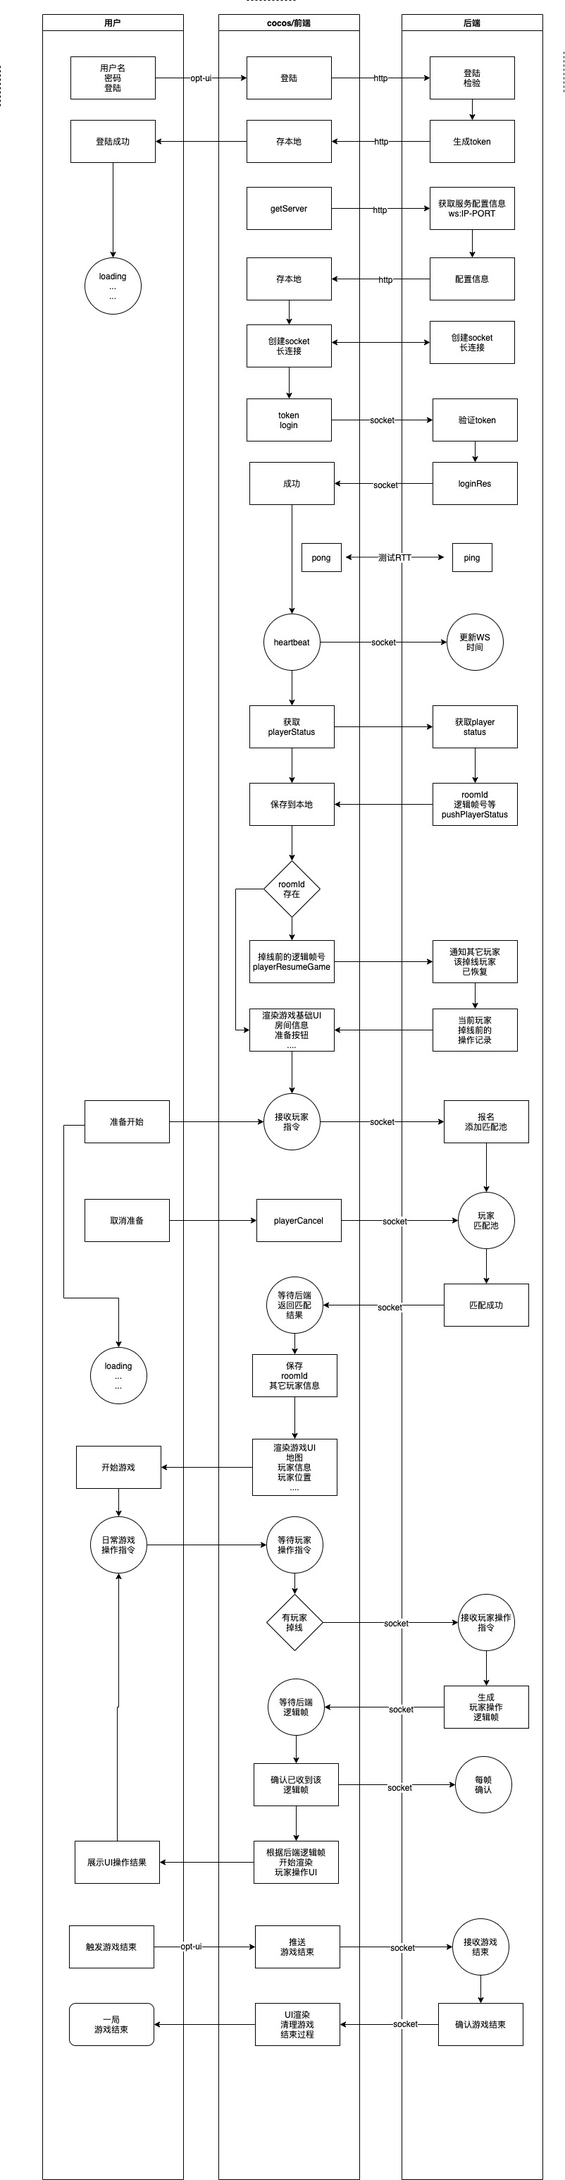
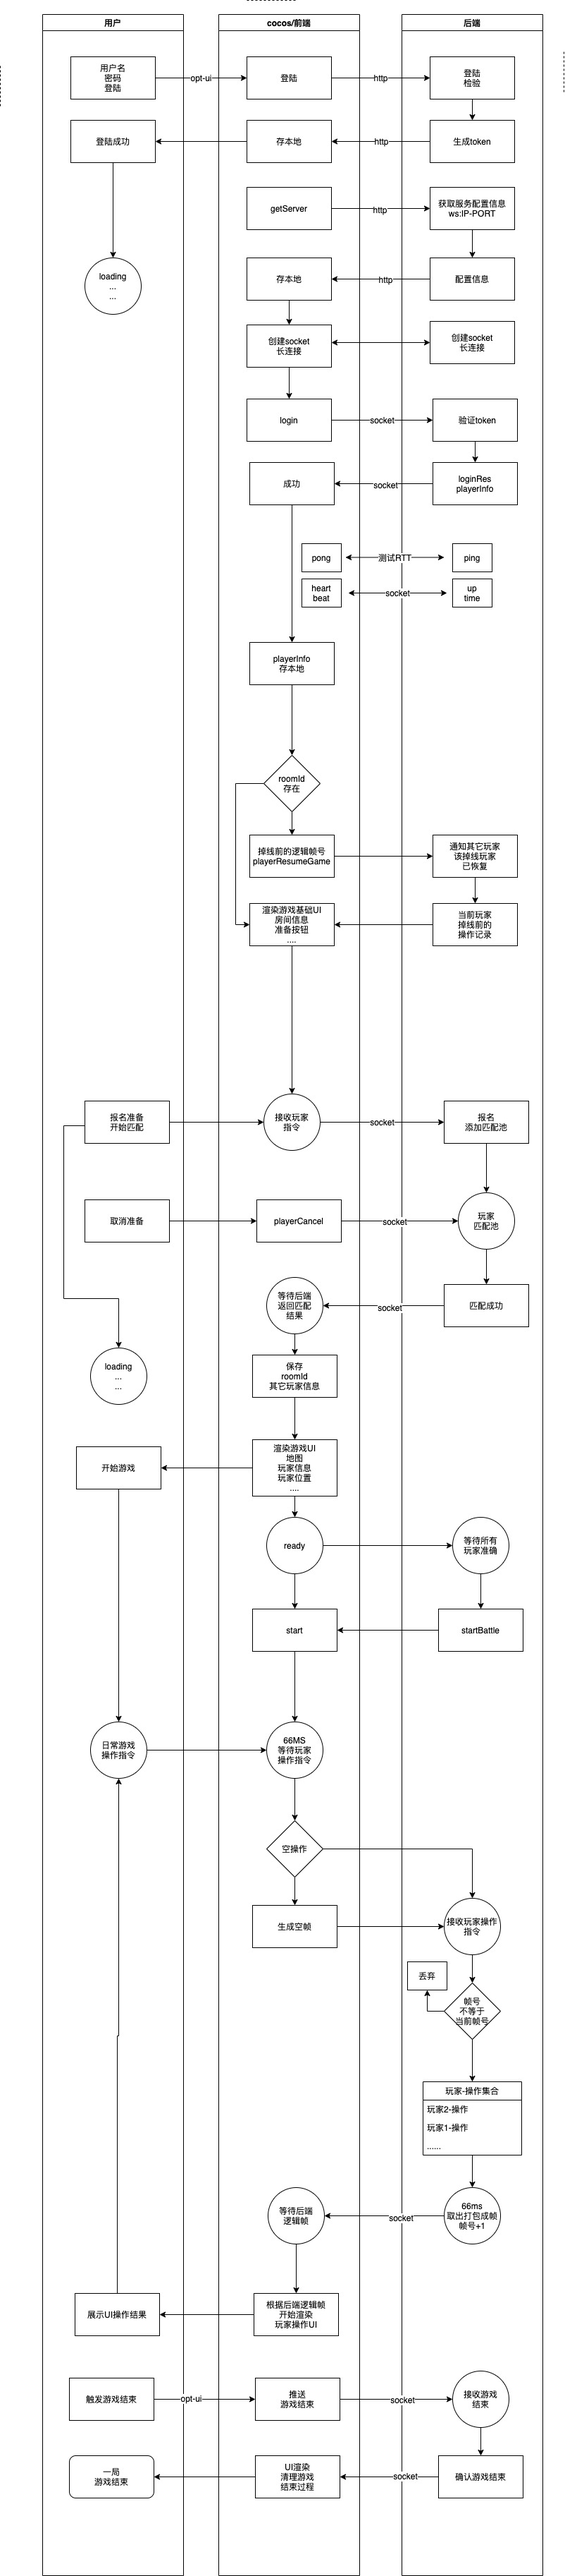
ddddddddd

diff --git a/www/config.html b/www/config.html
@@ -5,26 +5,12 @@
     <title>server - config</title>
 </head>
 <body>
-<a href="/www/">apilist</a>
-<br/>
-<br/>
-服务端接收
-<div id="client">
+<!--ws-->
+<!--<div id="ws">-->
 
-</div>
-<br/>
-客户端接收
-<div id="server">
-
-</div>
-
-ws
-<div id="ws">
-
-</div>
+<!--</div>-->
 
 
-other
 <div id="other">
 
 </div>
@@ -40,6 +26,7 @@ other
         type: "GET",
         // url: "http://192.168.192.91:2222/www/getServer",
         // url: "http://127.0.0.1:2222/www/getServer",
+        url:"/www/getServer",
         url:serverHostUri,
         success: function(data){
             init(data);
@@ -47,42 +34,59 @@ other
     });
 
     function init(data){
-        var clientHtml = initActionMap(data.ActionMap.client)
-        $("#client").html(clientHtml);
+        // var clientHtml = initActionMap(data.ActionMap.client)
+        // $("#client").html(clientHtml);
+        //
+        // var serverHtml = initActionMap(data.ActionMap.server)
+        // $("#server").html(serverHtml);
 
-        var serverHtml = initActionMap(data.ActionMap.server)
-        $("#server").html(serverHtml);
+
+        // var html = "<table>" +
+        //     "<tr><td>ip</td><td>"+data.Host+"</td></tr>" +
+        //     "<tr><td>uri</td><td>"+data.Uri+"</td></tr>" +
+        //     "<tr><td>port</td><td>"+data.Port+"</td></tr>"
+        // ;
+        // html += "</table>";
+        // $("#ws").html(html);
+
 
 
         var html = "<table>" +
-            "<tr><td>ip</td><td>"+data.Host+"</td></tr>" +
-            "<tr><td>uri</td><td>"+data.Uri+"</td></tr>" +
-            "<tr><td>port</td><td>"+data.Port+"</td></tr>"
-        ;
-        html += "</table>";
-        $("#ws").html(html);
+            "<tr><td>key</td><td>value</td><td>描述</td></tr>"+
+            "<tr><td>ip</td><td>"+data.host+"</td><td>长连接IP地址</td></tr>" +
+            "<tr><td>port</td><td>"+data.port+"</td><td>长连接端口号</td></tr>"+
+            "<tr><td>wsUri</td><td>"+data.wsUri+"</td><td>WS相对地址，完整地址：IP:PORT/wsUri </td></tr>" +
+            "<tr><td>mapSize</td><td>"+data.mapSize+"</td><td>地图矩阵大小，用于测试</td></tr>" +
+            "<tr><td>contentType</td><td>"+data.contentType+"</td><td>传输内容格式，目前支持：JSON PROTOBUF</td></tr>" +
+            "<tr><td>loginAuthType</td><td>"+data.loginAuthType+"</td><td>长连接登陆内容验证方式</td></tr>" +
+
+            "<tr><td>offLineWaitTime</td><td>"+data.offLineWaitTime+"</td><td>客户端连接N秒内没有IO操作，服务端将回收该连接SOCKET FD</td></tr>" +
+            "<tr><td>maxClientConnNum</td><td>"+data.maxClientConnNum+"</td><td>客户端最大连接数</td></tr>" +
+            "<tr><td>roomTimeout</td><td>"+data.roomTimeout+"</td><td>房间超时，如果一个房间所有人均掉线后，到达这个时间，系统将回收该房间</td></tr>" +
+
+
+            "<tr><td>lockMode</td><td>"+data.lockMode+"</td><td>1囚徒模式2乐观锁</td></tr>"+
+            "<tr><td>fps</td><td>"+data.fps+"</td><td>每秒多少逻辑帧，使用者要1000/FPS=XX ms</td></tr>"+
+
+            "<tr><td>roomPeople</td><td>"+data.roomPeople+"</td><td>一个房间多少人</td></tr>"
 
 
 
-        var html = "<table>" +
-            "<tr><td>OffLineWaitTime</td><td>"+data.OffLineWaitTime+"</td></tr>" +
-            "<tr><td>MapSize</td><td>"+data.MapSize+"</td></tr>" +
-            "<tr><td>contentType</td><td>"+data.ContentType+"</td></tr>" +
-            "<tr><td>LoginAuthType</td><td>"+data.LoginAuthType+"</td></tr>" +
-            "<tr><td>RoomPeople</td><td>"+data.RoomPeople+"</td></tr>"
+
+
         ;
         html += "</table>";
         $("#other").html(html);
     }
 
-    function initActionMap(data){
-        var html = "<table border='1'><tr><td>id</td><td>action</td><td>描述</td></tr>";
-        for(let key  in data){
-            html += "<tr><td>"+data[key].Id+"</td><td>"+data[key].Action+"</td><td>"+data[key].Desc+"</td><td>"+data[key].Demo+"</td></tr>"
-        }
-        html += "</table>";
-        return html;
-    }
+    // function initActionMap(data){
+    //     var html = "<table border='1'><tr><td>id</td><td>action</td><td>描述</td></tr>";
+    //     for(let key  in data){
+    //         html += "<tr><td>"+data[key].Id+"</td><td>"+data[key].Action+"</td><td>"+data[key].Desc+"</td><td>"+data[key].Demo+"</td></tr>"
+    //     }
+    //     html += "</table>";
+    //     return html;
+    // }
 
 </script>
 

diff --git a/www/ws.html b/www/ws.html
@@ -83,15 +83,15 @@ S端配置信息
     }
 
     function initPlayer(player,divId,data){
-        var host = "ws://"+data.Host + ":"+ data.Port;
-        var hostUri = data.Uri;
-        var matchGroupPeople = data.RoomPeople;
-        var tableMax = data.MapSize;
-        var OffLineWaitTime = data.OffLineWaitTime;
+        var host = "ws://"+data.host + ":"+ data.port;
+        var hostUri = data.wsUri;
+        var matchGroupPeople = data.roomPeople;
+        var tableMax = data.mapSize;
+        var offLineWaitTime = data.offLineWaitTime;
 
         var DomIdPreObj = getPlayerDomIdPreObj(player.id);
         DomIdPreObj.playerId = player.id;
-        var wsObj = new ws(player.id,player.token,host,hostUri,matchGroupPeople,tableMax,DomIdPreObj,OffLineWaitTime,data.ActionMap,data.FPS);
+        var wsObj = new ws(player.id,player.token,host,hostUri,matchGroupPeople,tableMax,DomIdPreObj,offLineWaitTime,data.ActionMap,data.fps);
         var html = getTemplateHtml();
         html = ReplaceTemplateHtml(html,DomIdPreObj);
         $("#"+divId).html(html);
@@ -107,22 +107,21 @@ S端配置信息
 
     function init(data){
         var serverConfigTable = $("#server_config_table");
-        var host = "ws://"+data.Host + ":"+ data.Port;
-        var hostUri = data.Uri;
-        var matchGroupPeople = data.RoomPeople;
-        var tableMax = data.MapSize;
-        var OffLineWaitTime = data.OffLineWaitTime;
+        var host = "ws://"+data.host + ":"+ data.port;
+        var hostUri = data.wsUri;
+        var matchGroupPeople = data.roomPeople;
+        var tableMax = data.mapSize;
+        var offLineWaitTime = data.offLineWaitTime;
 
         var html = "<tr><td>host</td><td>"+host+"</td></tr>";
         // html += "<tr><td>hostUri</td><td>"+hostUri+"</td></tr>";
         // html += "<tr><td>matchGroupPeople</td><td>"+matchGroupPeople+"</td></tr>";
         // html += "<tr><td>tableMax</td><td>"+tableMax+"</td></tr>";
         // html += "<tr><td>OffLineWaitTime</td><td>"+OffLineWaitTime+"</td></tr>";
-        html += "<tr><td>FPS</td><td>"+ data.FPS+"</td></tr>";
-        html += "<tr><td>FPS-MS</td><td>"+ 1000 /  data.FPS+"</td></tr>";
+        html += "<tr><td>FPS</td><td>"+ data.fps+"</td></tr>";
+        html += "<tr><td>FPS-MS</td><td>"+ 1000 /  data.fps+"</td></tr>";
 
         serverConfigTable.html(html);
-
 
         initPlayer(player1,"p1",data);
         initPlayer(player2,"p2",data);

diff --git a/www/sync.js b/www/sync.js
@@ -9,9 +9,9 @@ function ws (playerId,token,host,uri,matchGroupPeople,tableMax,DomIdObj,offLineW
     this.playerId = playerId;//玩家ID
     this.token = token;//玩家的凭证
     this.matchGroupPeople = matchGroupPeople;//一个副本的人数
+    this.heartbeatLoopFunc = null;//心跳回调函数
     this.tableMax = tableMax;//地址的表格大小
     this.otherPlayerOffline = 0;//其它玩家调线
-    this.heartbeatLoopFunc = null;//心跳回调函数
     this.pushLogicFrameLoopFunc = null;//定时推送玩家操作
     this.playerOperationsQueue = [];
     this.closeFlag = 0;//关闭标识，0正常1手动关闭2后端关闭
@@ -28,7 +28,6 @@ function ws (playerId,token,host,uri,matchGroupPeople,tableMax,DomIdObj,offLineW
     this.actionMap = actionMap;
     this.sequenceNumber = 0;
     this.randSeek = 0;
-
 
     //入口函数，必须得建立连接后，都有后续的所有操作
     this.create  = function(){

diff --git a/www/index.html b/www/index.html
@@ -1,0 +1,20 @@
+<!DOCTYPE html>
+<html lang="en">
+<head>
+    <meta charset="UTF-8">
+    <title>frame - sync</title>
+    <table>
+        <tr><td> <a href="/www/ws.html" target="_blank"> jsDemo</a></td></tr>
+        <tr><td><a href="/www/apilist.html"  target="_blank"> apilist</a></td></tr>
+        <tr><td><a href="/www/config.html"  target="_blank"> 配置信息说明</a></td></tr>
+        <tr><td><a href="/www/getProtoFile"  target="_blank"> proto文件</a></td></tr>
+        <tr><td><a href="/www/sync_frame_client_server.jpg"  target="_blank"> C/S交互流程图</a></td></tr>
+        <tr><td>&nbsp;</td></tr>
+        <tr><td><a href="/www/getServer"  target="_blank"> getServer-json</a></td></tr>
+        <tr><td><a href="/www/apilist"  target="_blank"> 协议接口-json</a></td></tr>
+    </table>
+</head>
+<body>
+
+</body>
+</html>

diff --git a/netway.go b/netway.go
@@ -23,26 +23,26 @@ type NetWay struct {
 }
 
 type NetWayOption struct {
-	Host 				string
-	Port 				string
-	Mylog 				*zlib.Log
-	ContentType 		int32			//json protobuf
-	LoginAuthType		string		//jwt
-	LoginAuthSecretKey	string		//密钥
-	MaxClientConnNum	int32			//客户端最大连接数
-	MsgContentMax		int32			//一条消息内容最大值
-	IOTimeout			int64		//read write sock fd 超时时间
-	Cxt 				context.Context	//调用方的CTX，用于所有协程的退出操作
-	MainChan			chan int32
-	ConnTimeout 		int32			//检测FD最后更新时间
-	WsUri				string		//接HOST的后面的URL地址
-	Protocol 			int32			//协议  ，ws sockdt udp
-	MapSize				int32			//地址大小，给前端初始化使用
-	RoomPeople			int32			//一局游戏包含几个玩家
-	RoomTimeout 		int32 		//一个房间超时时间
-	OffLineWaitTime		int32			//lockStep 玩家掉线后，其它玩家等待最长时间
-	LockMode  			int32 		//锁模式，乐观|悲观
-	FPS 				int32 		//frame pre second
+	Host 				string		`json:"host"`
+	Port 				string		`json:"port"`
+	Mylog 				*zlib.Log	`json:"mylog"`
+	ContentType 		int32		`json:"contentType"`	//json protobuf
+	LoginAuthType		string		`json:"loginAuthType"`	//jwt
+	LoginAuthSecretKey	string								//密钥
+	MaxClientConnNum	int32		`json:"maxClientConnMum"`//客户端最大连接数
+	MsgContentMax		int32								//一条消息内容最大值
+	IOTimeout			int64								//read write sock fd 超时时间
+	Cxt 				context.Context						//调用方的CTX，用于所有协程的退出操作
+	MainChan			chan int32	`json:"-"`
+	ConnTimeout 		int32								//检测FD最后更新时间
+	WsUri				string		`json:"wsUri"`			//接HOST的后面的URL地址
+	Protocol 			int32		`json:"protocol"`		//协议  ，ws sockdt udp
+	MapSize				int32		`json:"mapSize"`		//地址大小，给前端初始化使用
+	RoomPeople			int32		`json:"roomPeople"`		//一局游戏包含几个玩家
+	RoomTimeout 		int32 		`json:"roomTimeout"`	//一个房间超时时间
+	OffLineWaitTime		int32		`json:"offLineWaitTime"`//lockStep 玩家掉线后，其它玩家等待最长时间
+	LockMode  			int32 		`json:"lockMode"`		//锁模式，乐观|悲观
+	FPS 				int32 		`json:"fps"`			//frame pre second
 }
 
 type Message struct {

diff --git a/httpd.go b/httpd.go
@@ -39,11 +39,10 @@ func  wwwHandler(w http.ResponseWriter, r *http.Request){
 	}
 
 	var jsonStr []byte
+	//var err error
 	if uri == "/www/getServer"{
 		options := mynetWay.Option
 		jsonStr,_ = json.Marshal(&options)
-
-		return
 	}else if uri == "/www/apilist"{
 		ApiList := ApiList{
 			ActionMap : mynetWay.ProtocolActions.getActionMap(),
@@ -69,7 +68,10 @@ func  wwwHandler(w http.ResponseWriter, r *http.Request){
 		ApiList.JsonFormat = formatStr
 		jsonStr,_ = json.Marshal(&ApiList)
 
-	}else if uri == "/www/testCreateJwtToken"{
+	}else if uri == "/www/actionMap"{
+		info := mynetWay.ProtocolActions.getActionMap()
+		jsonStr,_ = json.Marshal(&info)
+	} else if uri == "/www/testCreateJwtToken"{
 		info := mynetWay.testCreateJwtToken()
 		jsonStr,_ = json.Marshal(&info)
 	}else if uri == "/www/getProtoFile"{
@@ -113,9 +115,11 @@ func  routeStatic(w http.ResponseWriter,r *http.Request,uri string)error{
 	//	uri = uriSplit[0]
 	//}
 	if  uri == "/www/ws.html" ||
+		uri == "/www/sync_frame_client_server.jpg" ||
 		uri == "/www/jquery.min.js"||
 		uri == "/www/sync.js"||
 		uri == "/www/sync_frame_client_server.jpg" ||
+		uri == "/www/index.html" ||
 		uri == "/www/config.html" ||
 		uri == "/www/apilist.html"{ //静态文件
 
